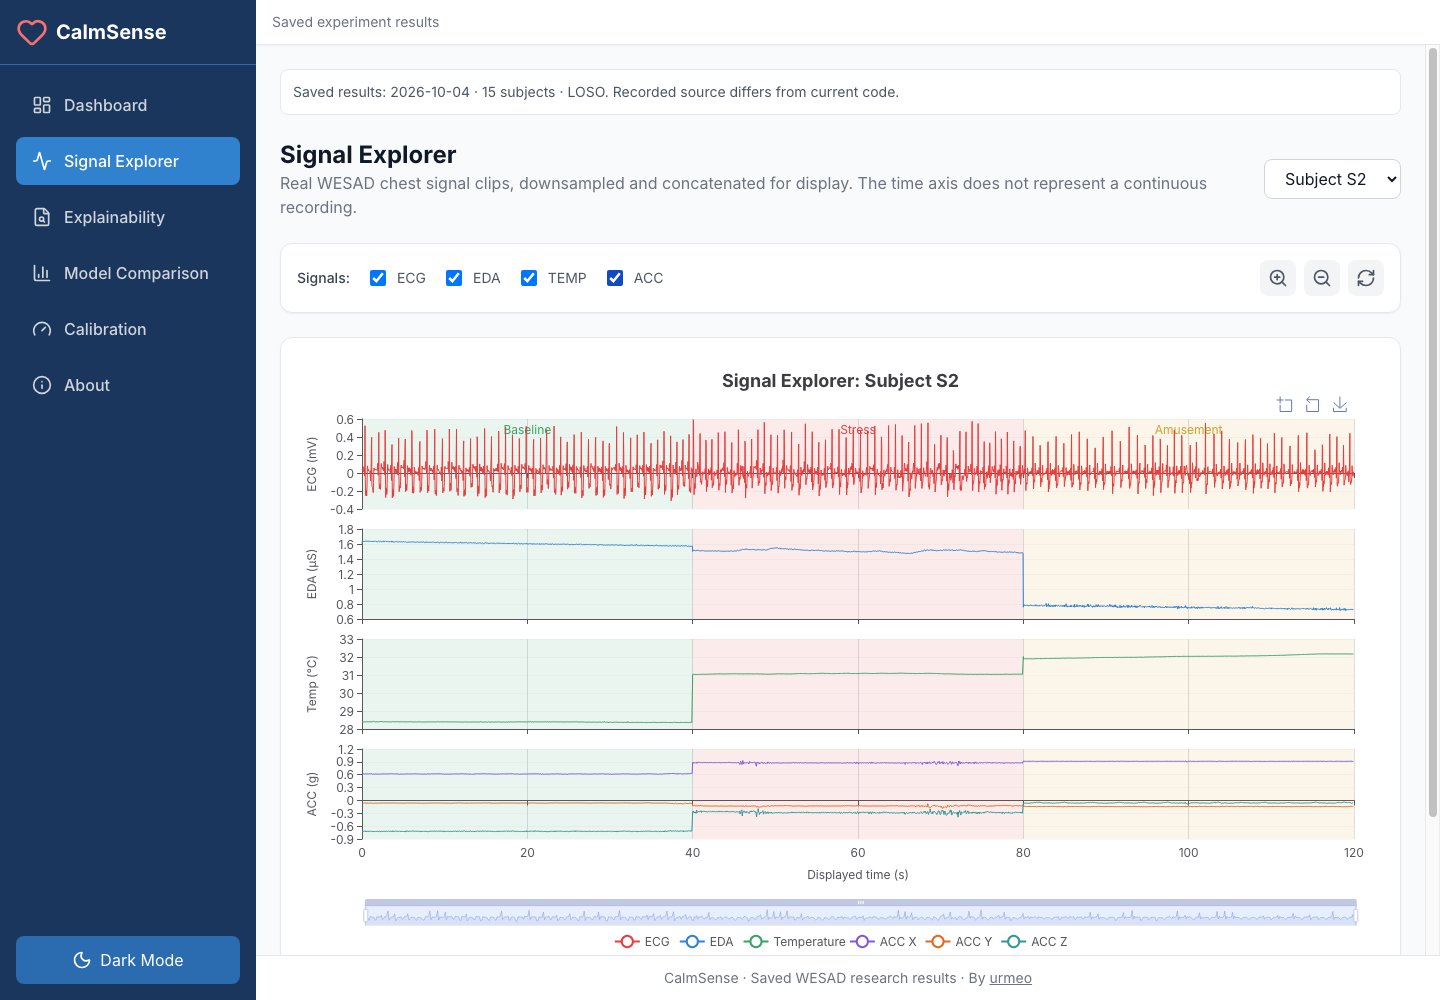
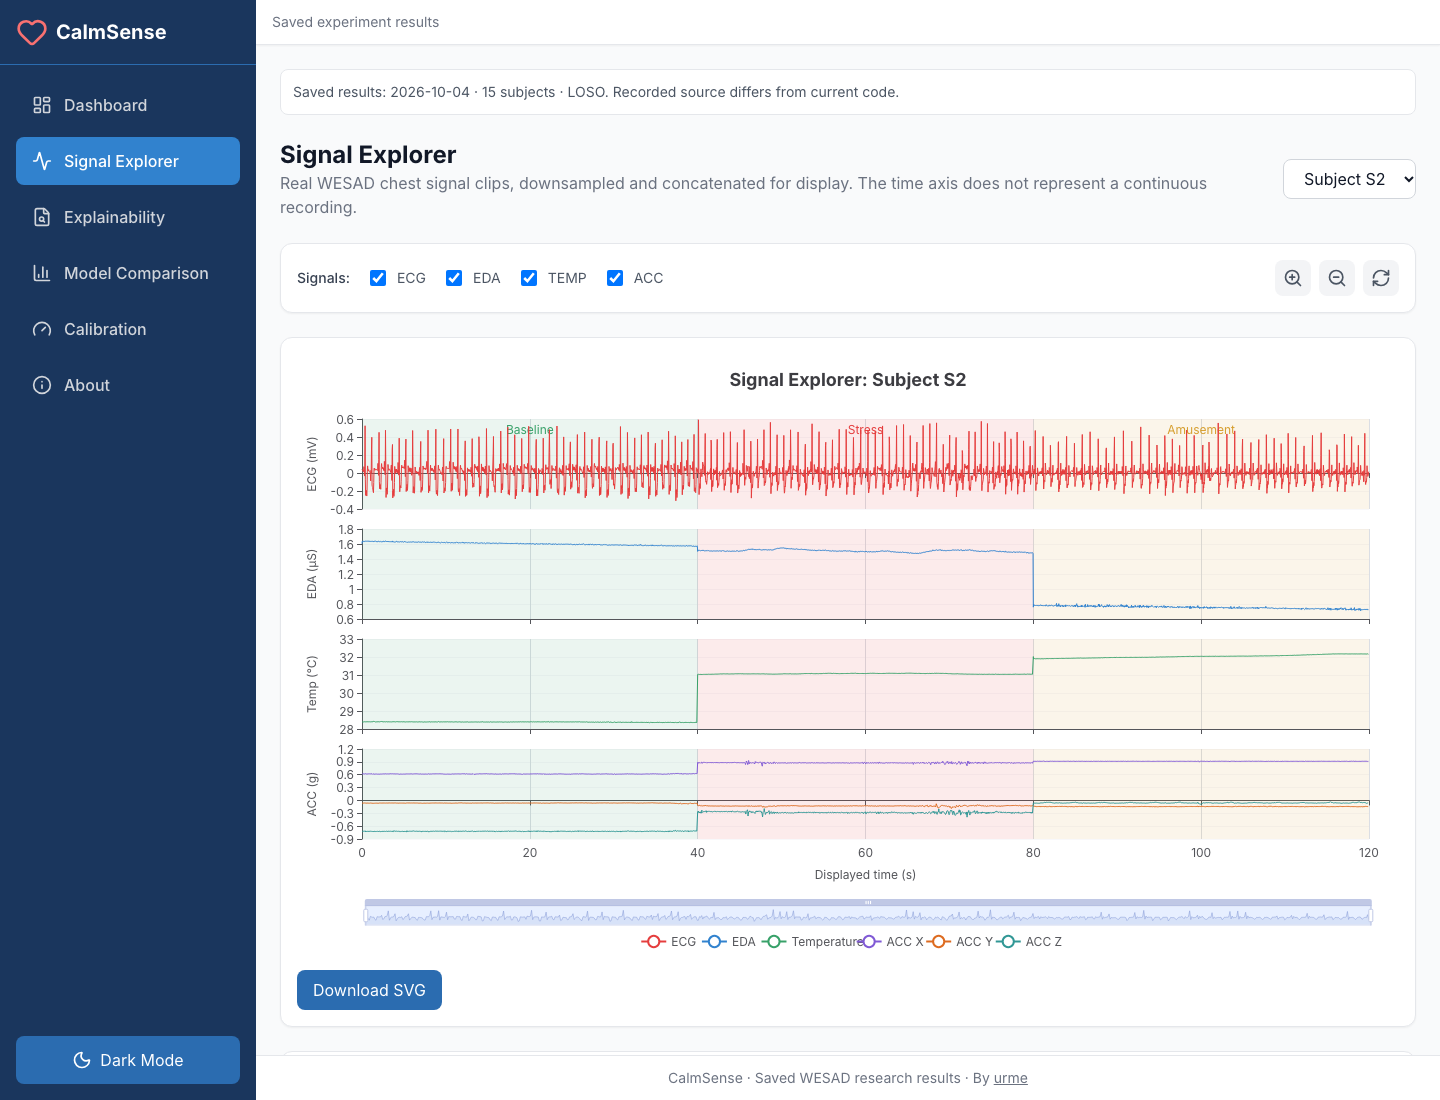
updated visuals

diff --git a/frontend/public/media/README.md b/frontend/public/media/README.md
@@ -6,19 +6,23 @@ The pipeline has five steps: recorded signals, windows, training, unseen-person 
 
 Original captures were recorded on 12 October 2026 (Asia/Dhaka) at source revision [`e49f735`](https://github.com/urmeo/calm-sense/commit/e49f735f050d7676ede9c6c9206b2cf83a1f51f0). The pipeline screenshot and dashboard tour were refreshed on 14 October 2026 (Asia/Dhaka) from the modified frontend based on [`7a91a14`](https://github.com/urmeo/calm-sense/commit/7a91a1437e6f58bd6c18ce3815e7815817573841).
 
[2 lines of base64/hex data omitted]
+
[1 lines of base64/hex data omitted]
+
+Both fingerprints cover tracked and non-ignored frontend files, excluding deleted paths, dependencies, build, cache, and media folders. Source files stayed unchanged during each capture.
 
 | File | Content | Capture source |
 | :-- | :-- | :-- |
 | [current-dashboard.png](current-dashboard.png) | Saved WESAD results and subject-mean accuracy | Original `e49f735` |
-| [signal-explorer.png](signal-explorer.png) | Recorded chest signals with ECG, EDA, temperature, and acceleration enabled | Original `e49f735` |
+| [signal-explorer.png](signal-explorer.png) | Recorded chest signals with all four channel groups enabled and the SVG download button | Modified frontend based on `7700fd3` |
 | [research-pipeline.png](research-pipeline.png) | Complete five-step About pipeline, including both training paths and saved results | Modified frontend based on `7a91a14` |
 | [dashboard-tour.mp4](dashboard-tour.mp4) | 32.0 s: dashboard, model comparison, calibration, and the five-step pipeline | Modified frontend based on `7a91a14` |
 | [signal-explorer.mp4](signal-explorer.mp4) | 24.0 s: signal channels, zoom, reset, and subject selection | Original `e49f735` |
 | [dashboard-tour.gif](dashboard-tour.gif) | Animated preview of the refreshed dashboard video | Modified frontend based on `7a91a14` |
 | [signal-explorer.gif](signal-explorer.gif) | Animated preview of the original signal video | Original `e49f735` |
 
-`research-pipeline.png` is 1,440 × 1,500 pixels so the full pipeline fits. The other screenshots and both videos are 1,440 × 1,000 pixels. Videos use H.264, have no audio, and follow the measured capture timing. The browser was sampled at five frames per second; MP4 playback repeats frames at ten frames per second. Both GIF previews are 800 × 556 pixels and sample their recordings at two frames per second.
+`research-pipeline.png` is 1,440 × 1,500 pixels so the full pipeline fits. `signal-explorer.png` is 1,440 × 1,100 pixels to include the download button. `current-dashboard.png` and both videos are 1,440 × 1,000 pixels. Videos use H.264, have no audio, and follow the measured capture timing. The browser was sampled at five frames per second; MP4 playback repeats frames at ten frames per second. Both GIF previews are 800 × 556 pixels and sample their recordings at two frames per second.
 
 The dashboard displays saved measurements. Signal excerpts are downsampled and concatenated; displayed time is not one continuous recording. These recordings do not show live inference or a new benchmark run.
 
